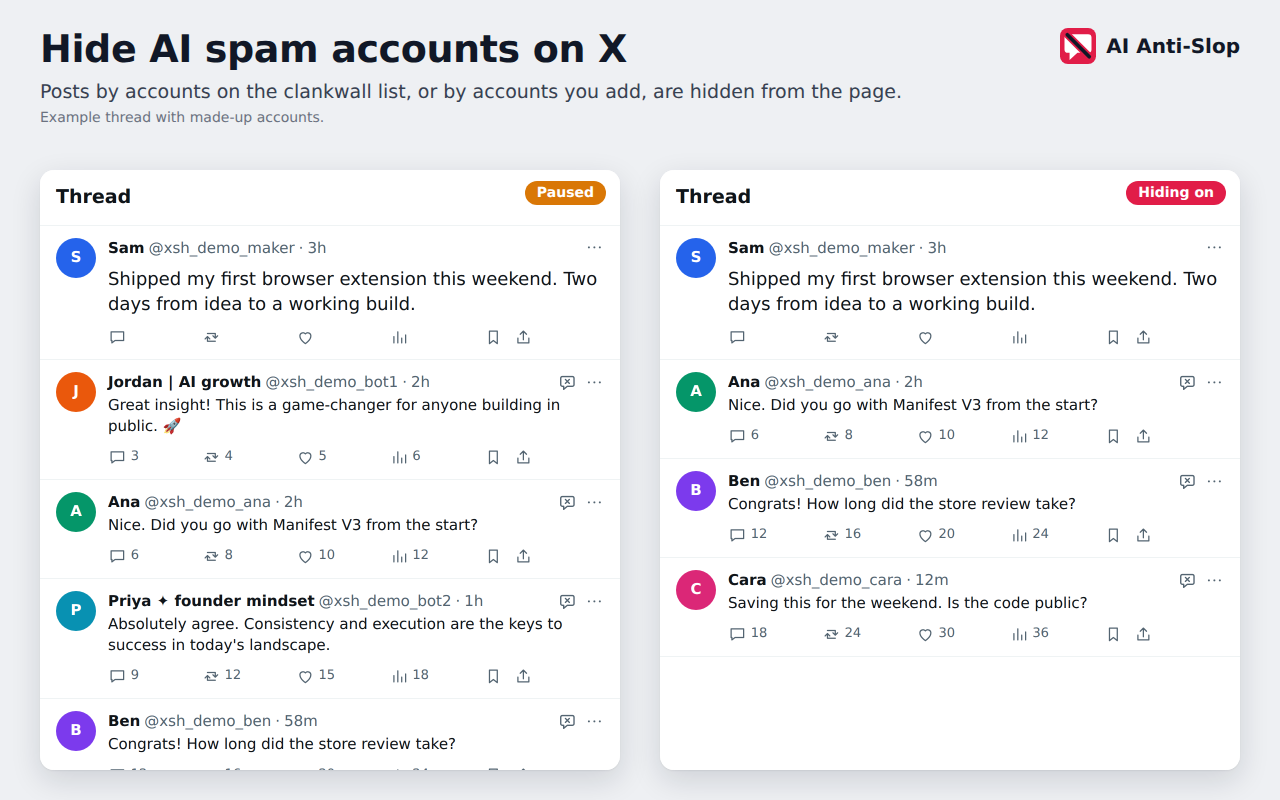
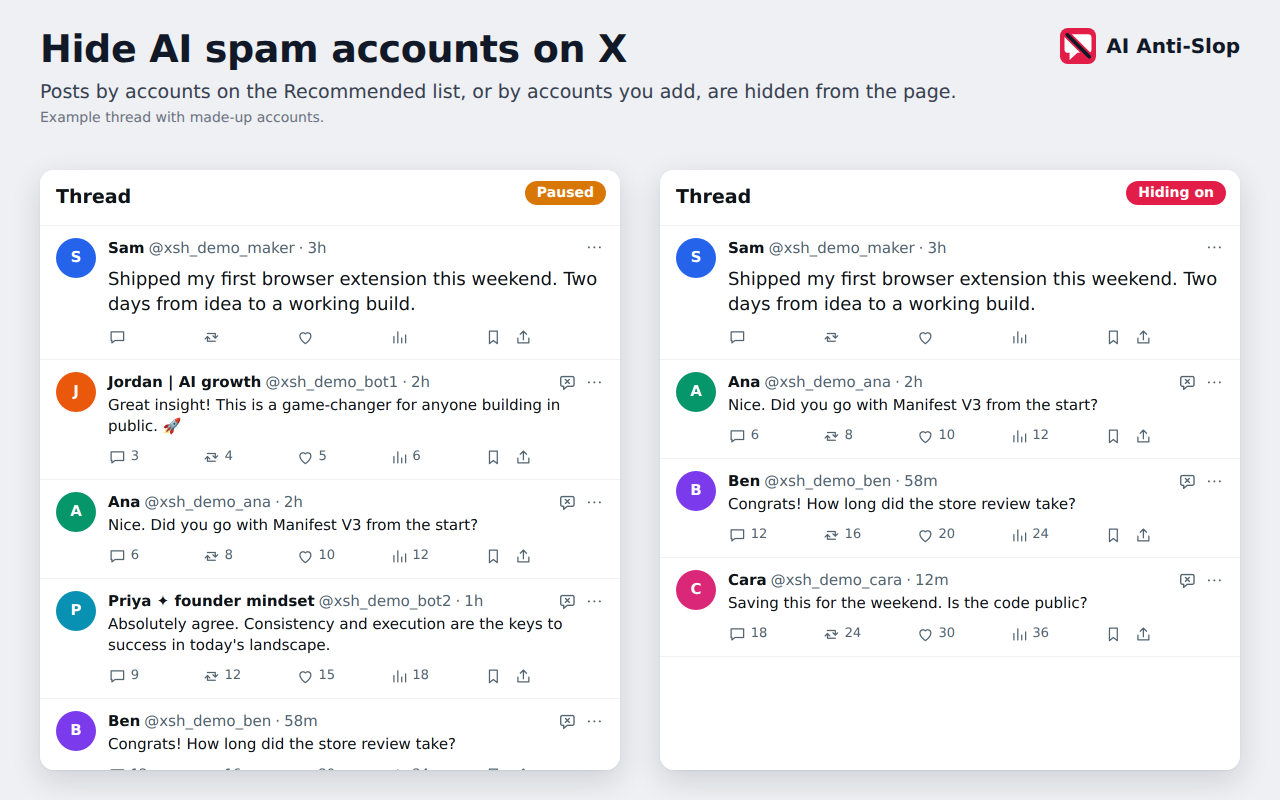
chore(release): 0.10.0 (#87)
Version 0.10.0: the manifest, `package.json` and the userscript's
`@version`, the policy and store-listing lines that named 0.9.0 or "the
changes after it", and the store images.

Store users are still on 0.8.0: 0.9.0 has been in review since
2026-11-19 and the store serves 0.8.0. So for store users this release
carries everything since 0.8.0 (Run now, label Undo, the Hide as slop
icon on every post, choosing lists, Recommended, deleted and suspended
accounts, sharing labels, the feedback link), and the update most of
them take is 0.8.0 → 0.10.0.

**Changes**
- `manifest.json`, `package.json`: 0.10.0. `dist/x-slop-hide.user.js`
rebuilt, so its `@version` is 0.10.0 too. Merging this ships 0.10.0 to
userscript users, whose manager updates from `main` when `@version`
rises.
- `PRIVACY.md`: covers 0.10.0, not "0.9.0 and the changes after it on
the main branch". `store/listing.md`: written for the 0.10.0 submit.
- `store/images/`: screenshots 1, 2 and 4 drawn again. 2 showed "787
accounts on the list"; it now shows "1350 accounts on 2 lists" and
Choose lists. Two captions now say Recommended and "Lists refresh every
6 hours" (they said the clankwall list and "The list"). Screenshot 3 and
the promo tile came out byte-identical.
- `docs/TESTING.md`: the update from the store's 0.8.0, below.

**Checked on this branch** (headless Chromium 157, playwright-core
1.65.1)
- `pnpm run check`: build check, parse, 447 of 447 tests; server tests
38 of 38.
[…]

Changed region(s): [[0.2188, 0.0938, 0.75, 0.125]]

diff --git a/dist/x-slop-hide.user.js b/dist/x-slop-hide.user.js
@@ -2,7 +2,7 @@
 // @name         x-slop-hide
 // @name:en      AI Anti-Slop
 // @namespace    https://github.com/StartupBros-com/x-slop-hide
-// @version      0.9.0
+// @version      0.10.0
 // @description  Hides x.com posts by accounts on a self-updating AI-reply spam list. Hides only; muting is in the browser extension.
 // @license      MIT
 // @homepageURL  https://github.com/StartupBros-com/ai-anti-slop

diff --git a/docs/TESTING.md b/docs/TESTING.md
@@ -725,6 +725,51 @@ handler in Node, including the parts this run did not reach: the daily cap,
 the 429 for a network's 11th new install, and a list built from three
 installs, read back through Recommended's own source.
 
+## Updating from the store's 0.8.0, in Chromium
+
+Store users were on 0.8.0 when 0.10.0 was made, since 0.9.0 was still in
+review, so this is the update most of them take. On 2026-11-21 the package the
+store serves for 0.8.0 (its `update_url` line removed) ran unpacked in headless
+Chromium 157 through playwright-core 1.65.1, in a fresh profile, with x.com
+mapped to a closed port. It was given state through 0.8.0's own code: labels
+on, two `slop` labels and one `not_slop` label saved by its worker's
+`saveLabel` (which added the accounts to Also hide and Always show), muting on
+as an account, and a mute record with two `muted` entries and one `already`,
+written with its `recordOutcome`. The browser was then closed, the profile's
+Service Worker cache deleted, the folder's files replaced by the 0.10.0
+release branch's (code committed as 4b8bb88), and the browser started again.
+
+- The extension kept its id. The three labels, the label count, Also hide,
+  Always show, the muting switch and account, and the mute record all read
+  back exactly as before.
+- Recommended was on and fetched 1,350 accounts: clankwall 786, levelsio 565
+  and the readers' list 0. levelsio's own list stayed off.
+- The granted permissions were the same before and after: `alarms`,
+  `storage`, clankwall and the x.com hosts.
+- The only hosts asked were clankwall, levelsio and the readers' list, with
+  GETs. There were no exceptions or console errors.
+- The popup read "Muting as @…", "Today (UTC): 0 of 25 mutes" and "On · 3
+  saved". The settings page had sharing off and offered "Also share the 3
+  labels already saved", unticked.
+- In a second run of the same update, watched for 208 s after the restart,
+  muting carried on by itself: its once-a-minute alarm opened one visit tab,
+  which x.com's closed port turned into an error page, the day's record counted
+  1 visit and the 90-second timeout for that tab was set. The three seeded
+  entries were unchanged.
+
+The same run with `muteEnabled` set but no muting account, which 0.8.0 reads
+as muting off, also kept everything; its popup showed muting off. So did a
+profile 0.8.0 had only installed, with nothing changed: no settings, and the
+AI list as its only key. After the update it had Recommended (1,366 accounts)
+and the AI list on, the other lists off, and the same permissions, with no
+errors.
+
+The same day, on the same code, the run under
+[Sharing labels](#sharing-labels-in-chromium-against-a-local-server) passed all
+16 checks again against `wrangler dev` with a local D1 database, and
+`scripts/store-screenshots.mjs` made the store images again (1,350 accounts on
+2 lists), which were looked at by eye.
+
 ## In daily use
 
 Since 2026-11-07 (UTC) the extension has run in Brave on Windows, on the
@@ -793,4 +838,7 @@ shrink guard refusing an update of All flags or an added list over the network
 x.com, and a refresh of it after the first fetch. For Recommended: any of it in
 Brave or on real x.com, a real store update (the update above was made by hand
 in a scratch profile), a refresh after the first fetch, and its per-file
-guards over the network (the unit tests cover them).
+guards over the network (the unit tests cover them). For the update from 0.8.0:
+the store's own update (files were swapped in one folder), a visit after it
+reaching x.com (the one above could not), and the userscript with the new lists
+in a userscript manager.

diff --git a/store/listing.md b/store/listing.md
@@ -13,19 +13,14 @@ the store added an `update_url` to `manifest.json` and a
 `_metadata/verified_contents.json`. The release zip also carries `PRIVACY.md`,
 `README.md` and `src/userscript-adapter.js`, which the store zip leaves out.
 
-What to enter in the Chrome Web Store developer dashboard for AI Anti-Slop 0.9.0,
-field by field. 0.8.0 went to review on 2026-11-18 with the v0.8.0-era text: no Run now
-sentence, Slop and Not slop buttons under replies in LABELS, and the summary
-that ended "at a capped daily pace" in place of "daily or all at once". The
-LABELS section, the Run now sentence, the storage and content-script
-justifications, the Website content row and the test instructions below all
-changed after v0.8.0. Sharing labels came after 0.9.0 and is in no
-submitted version: the readers' list in the first paragraph, the sharing
-line under LABELS, the PRIVACY section, the single purpose, the storage
-justification, the readers' list under Remote code, the data-usage reasons
-and the certification line were written for the first submit that carries
-it. So was the Report a problem line at the end of the description, which
-came after sharing. Field names and rules are from Google's developer documentation
+What to enter in the Chrome Web Store developer dashboard for AI Anti-Slop 0.10.0,
+field by field. The store serves 0.8.0; 0.9.0 went to review on 2026-11-19 with
+the v0.9.0-era text, and 0.10.0 is meant to replace it. Sharing labels is new
+in 0.10.0, so these were written for the first submit that carries it: the
+readers' list in the first paragraph, the sharing line under LABELS, the
+PRIVACY section, the single purpose, the storage justification, the readers'
+list under Remote code, the data-usage reasons and the certification line. So
+was the Report a problem line at the end of the description. Field names and rules are from Google's developer documentation
 at developer.chrome.com/docs/webstore, read on 2026-11-09. Where the docs show a
 dashboard label only in a screenshot, this file says so; match it to the
 dashboard itself.

diff --git a/PRIVACY.md b/PRIVACY.md
@@ -3,9 +3,9 @@
 AI Anti-Slop (formerly Human Replies Only and x-slop-hide) hides posts on x.com
 by accounts on a public list of AI-reply spam accounts. The browser extension
 can also mute those accounts on X, and can save labels you give to posts.
-This policy covers the extension and the userscript, version 0.9.0 and the
-changes after it on the main branch, which add the choice of lists, the
-Recommended list and sharing labels. Last updated 2026-11-21.
+This policy covers the extension and the userscript, version 0.10.0, which adds
+the choice of lists, the Recommended list and sharing labels. Where an earlier
+version differs, it says so. Last updated 2026-11-21.
 
 ## In short
 
@@ -173,7 +173,7 @@ no remotely hosted code.
 
 ## Sharing labels
 
-Sharing is in the extension only, in the changes after 0.9.0; the userscript
+Sharing is in the extension only, from 0.10.0; the userscript
 has no labels. It is off unless you turn it on under **Share your labels** on
 the settings page, which lists what is sent before the button. The popup says
 whether it is on.
